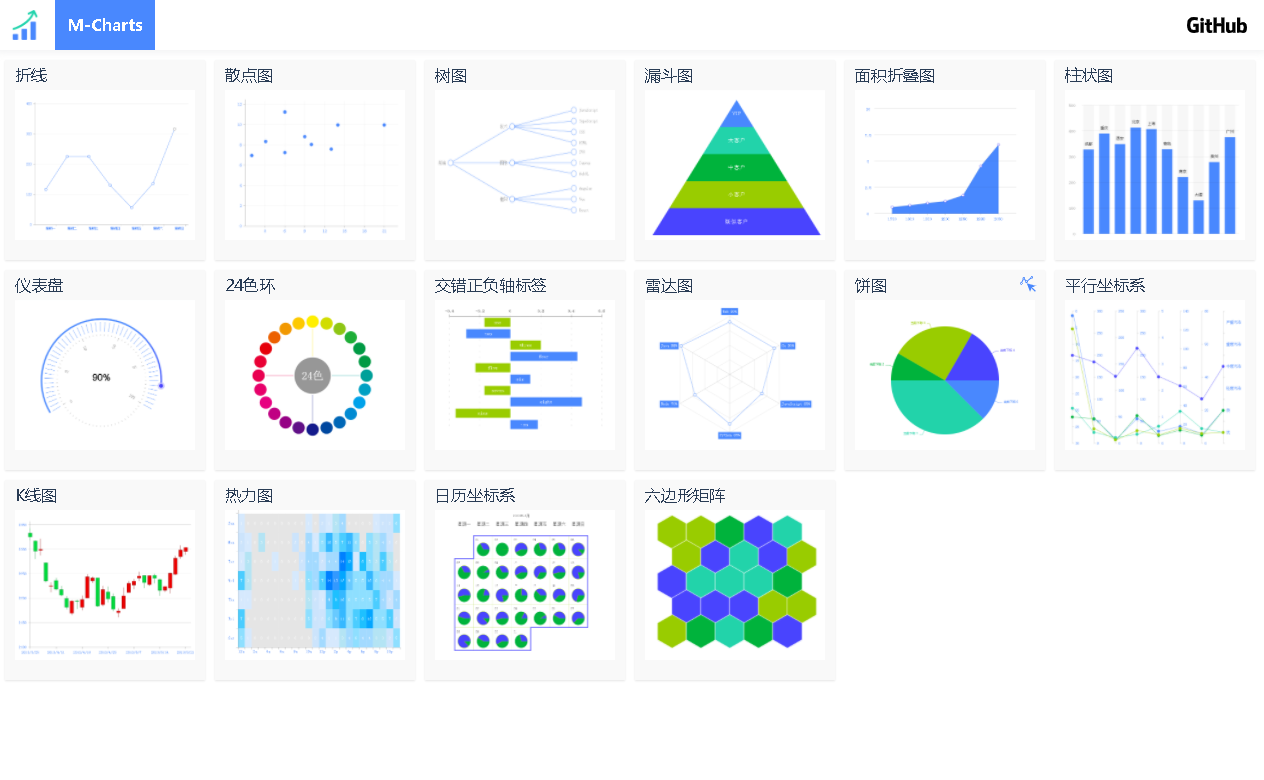
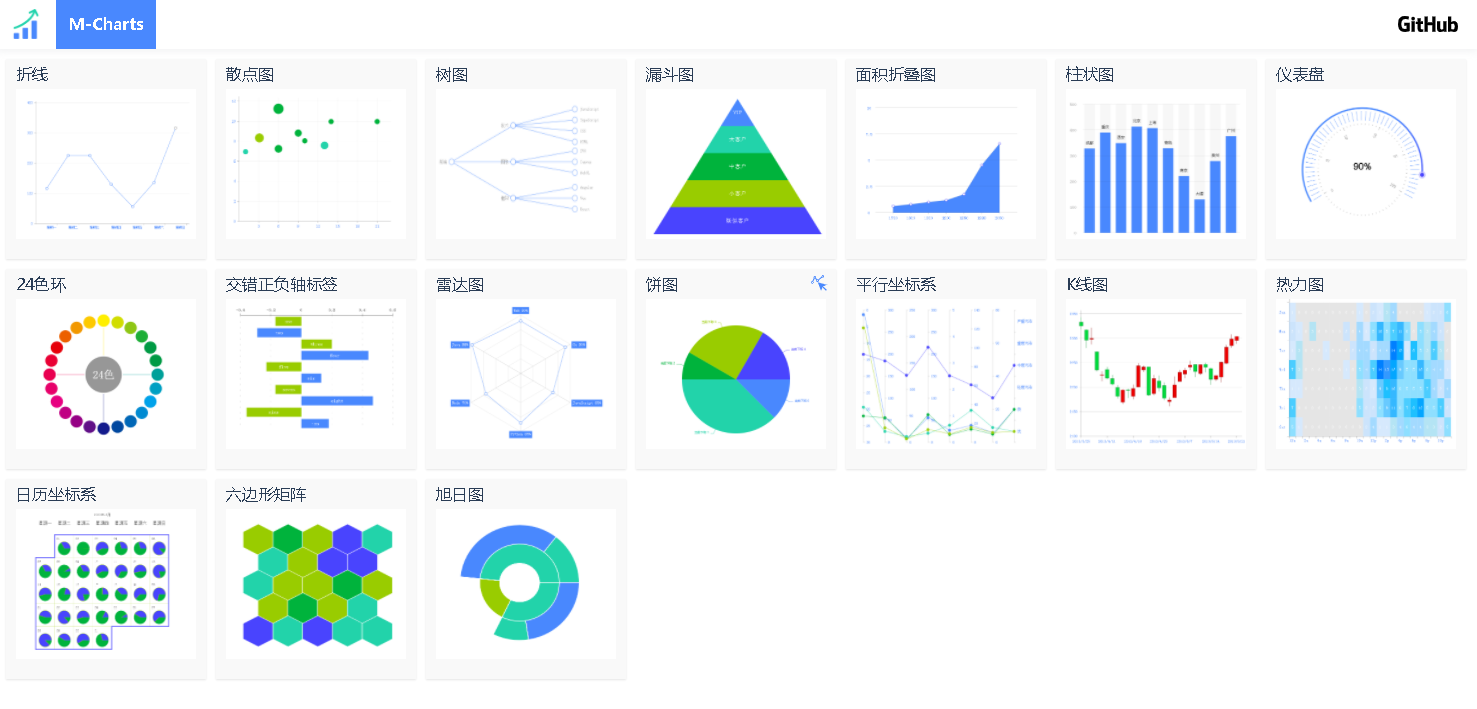
update

diff --git a/src/charts/shape/sunburst/sunburst.tsx b/src/charts/shape/sunburst/sunburst.tsx
@@ -2,7 +2,6 @@ import * as React from 'react';
 import { init } from '../../provider/canvas';
 import { sunburstData } from './../../mock';
 import "./sunburst.scss";
-
 class SunburstComponent extends React.Component {
     canvas:any;
     ctx:any;
@@ -22,14 +21,40 @@ class SunburstComponent extends React.Component {
 
     initData() {
         this.config = {
-            RADIUS: 180, // 圆饼半径
-            INNTER_RADIUS: 60, // 内部圆的半径
+            RADIUS: 60, // 圆饼半径
+            WIDTH: 60, // 内部圆的半径
             RADIUS_VAL: 20, // 小圆半径
             COORDINATE_X:250, // x坐标
             COORDINATE_Y:250, // y坐标
             NUMS:75,
-            START_ANGLE:0 ,// 起始角度
+            START_ANGLE: 0 ,// 起始角度
         }
+        this.data = [
+            {
+                val:10,
+                child:[
+                    {
+                        val:7,
+                        child:[]
+                    },{
+                        val:3,
+                        child:[],
+                    }
+                ]
+            },{
+                val:6,
+                child:[],
+            }, {
+                val:15,
+                child:[{
+                    val:7,
+                    child:[]
+                },{
+                    val:3,
+                    child:[],
+                }]
+            }
+        ]
     }
 
     componentWillUnmount() {
@@ -44,17 +69,58 @@ class SunburstComponent extends React.Component {
         this.clientRect = this.canvas.getBoundingClientRect();
     }
 
-
     initDraw() {
-        this.ctx.translate(this.config.COORDINATE_X,this.config.COORDINATE_Y);
-        this.ctx.beginPath();
-        this.ctx.fillStyle = 'rgba(0,0, 0, 0.03)';
-        this.ctx.arc(0, 0, 100,0, Math.PI* 2)
+        this.ctx.fillStyle = 'red';
+        this.ctx.strokeStyle = 'white';
+        this.ctx.lineWidth = 2;
+        this.drawData();
 
+        // 空心圆
+        this.ctx.beginPath();
+        this.ctx.fillStyle = '#ffffff';
+        this.ctx.strokeStyle = '#ffffff';
+        this.ctx.arc(this.config.COORDINATE_X,this.config.COORDINATE_Y,this.config.RADIUS , 0 , Math.PI * 2);
+        this.ctx.closePath();
         this.ctx.fill();
         this.ctx.stroke();
     }
    
+    drawData(list : any[] =  this.data,level:number  = 0, sAngle:number = this.config.START_ANGLE, angle:number = Math.PI * 2) {
+        let data = list;
+        let count = 0;
+        let len = data.length;
+        let curr_angle =  sAngle;
+        for(let i=0;i<len;i++) {
+            count += data[i]['val'];
+        }
+
+        for(let i=0;i<len;i++) {
+            this.ctx.fillStyle = level ? [        
+                '#4988FE',
+                '#22D3AA',
+                '#00b33c',
+                '#99cc00',
+                '#4944FE'][i] : [        
+                    '#00b33c',
+                    '#99cc00',
+                    '#4944FE'][i]
+            let item = data[i];
+         
+            let _currAngle = angle * (item.val / count) ;
+            if(Array.isArray(item['child']) && item['child'].length) {
+                this.drawData(item['child'],1, curr_angle, _currAngle);
+            }
+            this.ctx.beginPath();
+            this.ctx.moveTo(this.config.COORDINATE_X, this.config.COORDINATE_Y);
+            this.ctx.arc(this.config.COORDINATE_X,this.config.COORDINATE_Y,this.config.RADIUS + this.config.WIDTH * (level + 1) ,curr_angle,curr_angle + _currAngle);
+            this.ctx.lineTo(this.config.COORDINATE_X, this.config.COORDINATE_Y);
+            curr_angle += _currAngle ;
+            this.ctx.closePath();
+            this.ctx.fill();
+            this.ctx.stroke();
+        }
+    }
+
     render() {
         return  <div className="charts">
                 <canvas id="canvas" width="600" height="500"></canvas>

diff --git a/src/pages/charts-list/charts-list.tsx b/src/pages/charts-list/charts-list.tsx
@@ -20,6 +20,7 @@ let imgCalendarCharts = require('./../../assets/imgs/shape/calendarCharts.png');
 let imgRingCharts = require('./../../assets/imgs/shape/ring.png');
 let imgBarNegative = require('./../../assets/imgs/shape/bar-negative.png');
 let imgHexagon = require('./../../assets/imgs/shape/hexagon.png');
+let imgSunburst = require('./../../assets/imgs/shape/sunburst.png');
 interface Charts {
     name: string, // 组件名称
     type: string, // 组件类型
@@ -113,7 +114,7 @@ class ChartsList extends React.Component<{}, object>  {
         {            
             name:'旭日图',
             type:'sunburse',
-            thumbnail: imgHexagon
+            thumbnail: imgSunburst
         }
     ]
     render() {

diff --git a/webpack.dev.conf.js b/webpack.dev.conf.js
@@ -74,7 +74,7 @@ module.exports = {
     host:"localhost",
     historyApiFallback: true,
     compress: true,
-    open:'Google Chrome',
+    open:true,
     openPage:'index.html',
   },
 };

diff --git a/public/index.html b/public/index.html
@@ -11,7 +11,7 @@
     body {
         margin: 0;
     }
-
+    
     </style>
 </head>
 <body>

diff --git a/README.md b/README.md
@@ -43,6 +43,7 @@ npm run dev
 14. 24色环
 15. 交错正负标签
 16. 六边形矩阵
+17. 日旭图
 ## TODO List 
 
 - 实现基础Chart Demo展示(Doing) 
